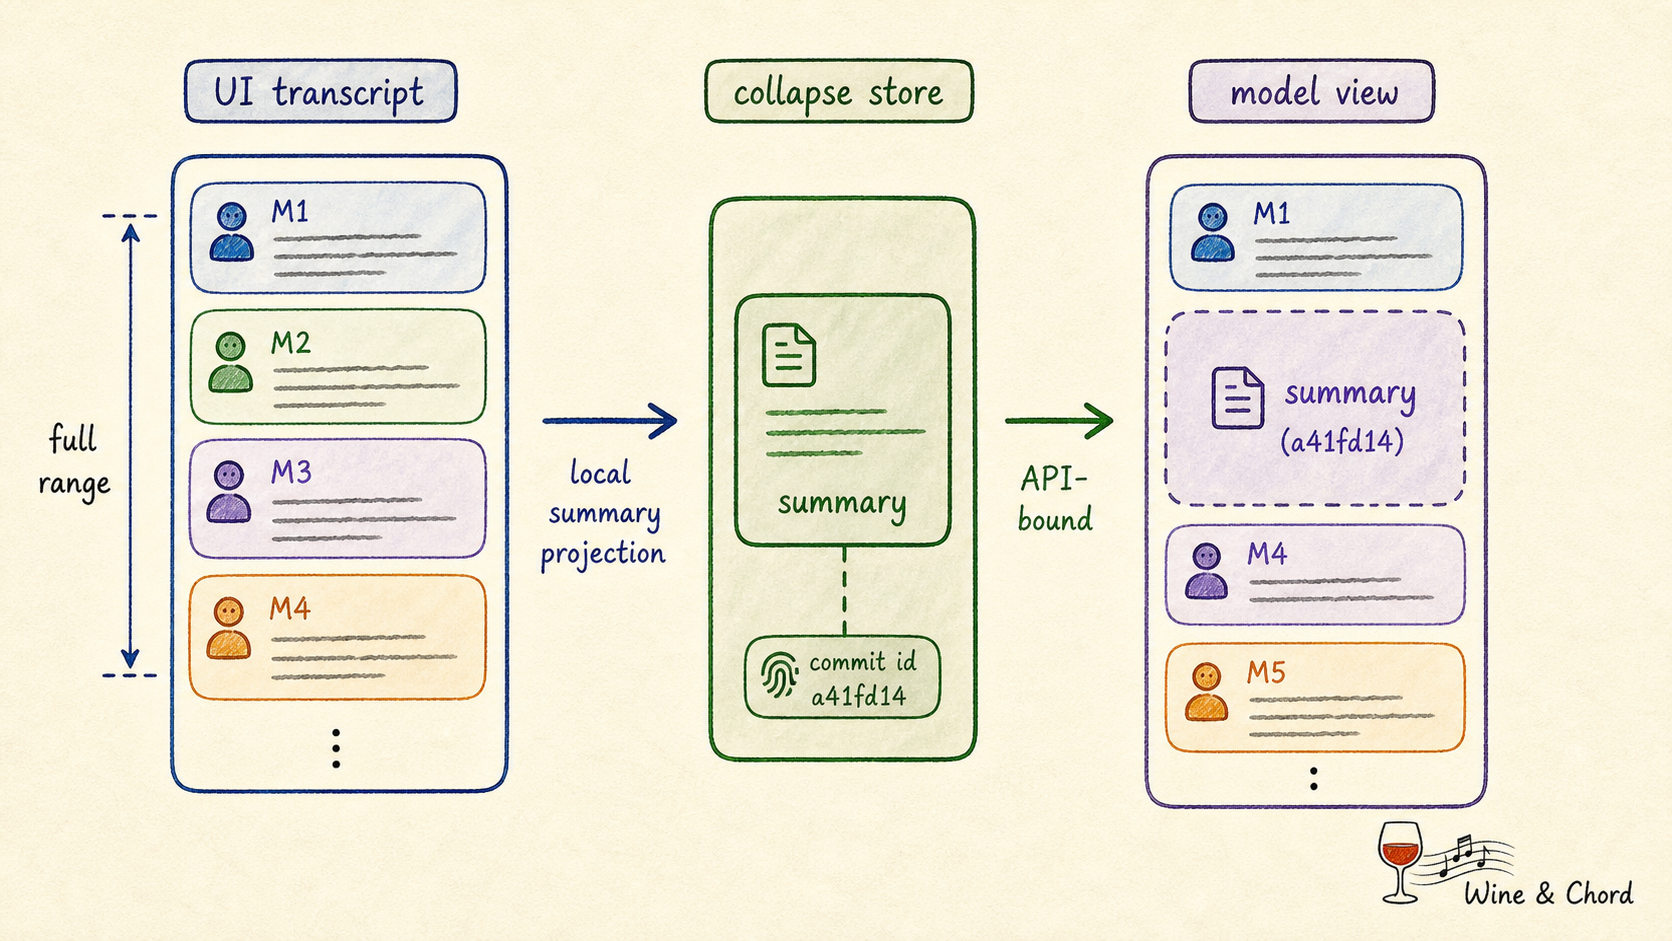
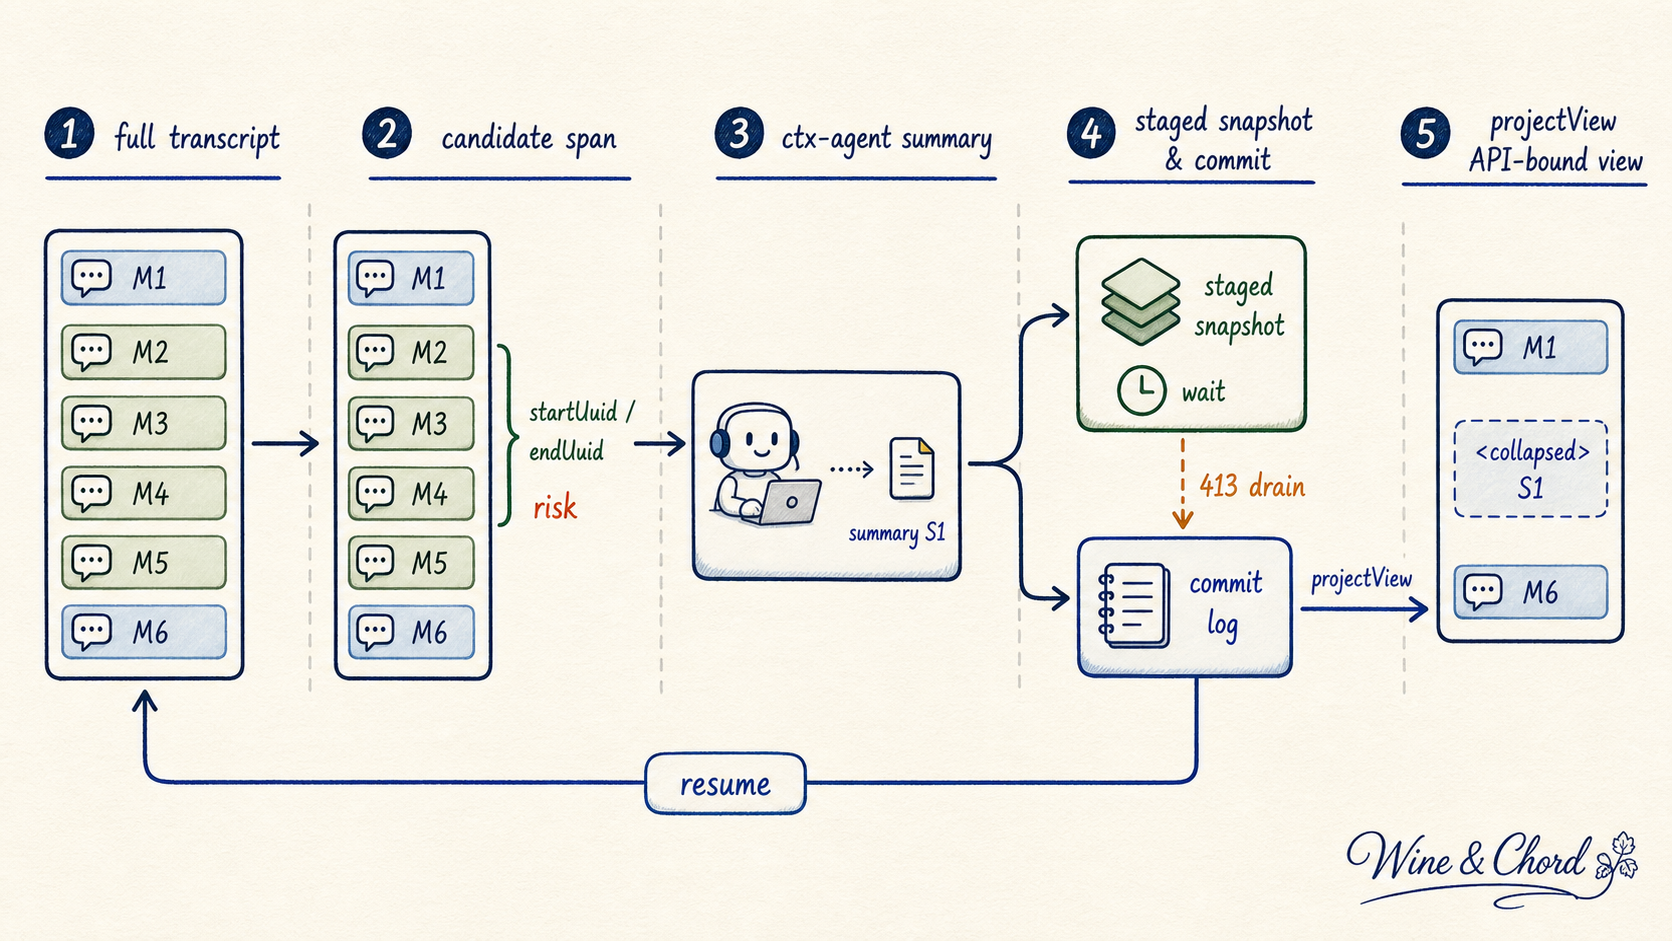
prompt-cache: clarify context collapse lifecycle

Changed region(s): [[0.0, 0.0616, 0.9952, 0.9862]]

diff --git a/docs/public/prompt-cache/index.html b/docs/public/prompt-cache/index.html
@@ -879,10 +879,11 @@ P + Q + cache_control
 <p>所以 cache edit 的收益很窄，但真实：它不是让旧日志既消失又完全不影响缓存统计；它是把“客户端从中间改写或删除一段历史”变成“provider 对已有缓存做一次带 reference 的删除”。收益体现在三个地方：本地 transcript 不丢细节，模型窗口不再背旧工具结果，warm cache 不必因为中段大文本消失而把后面的稳定历史整体重新铺一遍。代价也存在：它依赖 provider 支持、beta header、稳定的 <code>cache_reference</code> 位置，以及把旧 <code>cache_edits</code> pin 回原 user message 的请求纪律。</p>
 <p>microcompact 不是摘要。它不试图理解整段对话，只是把一批旧工具结果从模型视图里移走或引用化。</p>
 <p>这个限制反而是它的价值。旧 tool result 的问题通常不是语义复杂，而是体积太大、复用价值太低。用 summary 去处理它，既费一次模型调用，也可能把日志里的偶发细节误写成结论；用固定 marker 或 cache edit 处理，表达的是更保守的判断：旧结果不再值得原样占窗口，但也不需要被解释成新知识。</p>
-<h4>Context-collapse：源码里可见的是投影契约</h4>
-<p>context-collapse 更像“把一段历史折叠成摘要占位”的投影机制。</p>
-<p>它和 microcompact 的差别在于粒度。microcompact 看的是 tool result body；context-collapse 看的是一段历史消息能否被一条 summary 替代。</p>
-<p><img src="assets/claude-code-context-collapse.png" alt="Claude Code context-collapse 用 summary projection 把完整历史投影成模型视图"></p>
+<h4>Context-collapse：从候选 span 到 summary projection</h4>
+<p>context-collapse 更像“把一段连续历史折叠成摘要占位”的投影机制。</p>
+<p>它和 microcompact 的差别在于粒度。microcompact 看的是 tool result body；context-collapse 看的是一段消息 span 能否被一条 summary 替代。也就是说，这里真正需要回答的不是“最后是不是变短了”，而是四个问题：哪一段被选中，summary 由谁生成，什么时候从 staged 变成 committed，模型又在什么位置看到这个替代视图。</p>
+<p>先把源码边界说清楚：这份源码快照能看到 <a href="https://github.com/WineChord/claude-code/blob/5a774a2b62d7949c1d94e0b726281554d7893cfd/src/query.ts#L18"><code>query.ts</code></a> 对 <code>services/contextCollapse/index.js</code> 的 feature-gated 动态引入、启动时的 <a href="https://github.com/WineChord/claude-code/blob/5a774a2b62d7949c1d94e0b726281554d7893cfd/src/setup.ts#L295"><code>initContextCollapse()</code></a>、query 主链路、transcript 里的 commit / snapshot 类型、resume 恢复和 UI 状态；但真正的 <code>services/contextCollapse</code> 目录没有随快照展开。因此，具体 selector 如何打分、summary prompt 怎么写、触发阈值是多少，不能当成源码事实。可见源码能证明的是下面这条契约链。</p>
+<p><img src="assets/claude-code-context-collapse.png" alt="Claude Code context-collapse 的 staged snapshot、commit log 和 projectView 生命周期"></p>
 <pre><code class="language-text">UI / transcript:
 M1 M2 M3 M4 M5 M6 M7
 
@@ -892,18 +893,49 @@ commit(range: M2..M5, summary: S1)
 API-bound model view:
 M1 S1 M6 M7
 </code></pre>
-<p>这里的重点仍然是“投影”。读者在界面上不一定失去 M2 到 M5；但模型本轮看到的是更短的视图。</p>
-<p>在这份源码快照里，主链路和持久化契约是可见的：</p>
-<ul>
-<li><a href="https://github.com/WineChord/claude-code/blob/5a774a2b62d7949c1d94e0b726281554d7893cfd/src/query.ts#L365"><code>src/query.ts</code></a> 在 microcompact 之后、autocompact 之前做 context-collapse projection。</li>
-<li>注释说明它是 read-time projection：REPL full history 仍保持完整，summary messages 放在 collapse store 里，<code>projectView()</code> 每轮重放 commit log。</li>
-<li><a href="https://github.com/WineChord/claude-code/blob/5a774a2b62d7949c1d94e0b726281554d7893cfd/src/utils/sessionStorage.ts#L1541"><code>src/utils/sessionStorage.ts</code></a> 有 <a href="https://github.com/WineChord/claude-code/blob/5a774a2b62d7949c1d94e0b726281554d7893cfd/src/utils/sessionStorage.ts#L1541"><code>recordContextCollapseCommit()</code></a> 和 <a href="https://github.com/WineChord/claude-code/blob/5a774a2b62d7949c1d94e0b726281554d7893cfd/src/utils/sessionStorage.ts#L1541"><code>recordContextCollapseSnapshot()</code></a>。</li>
-<li><a href="https://github.com/WineChord/claude-code/blob/5a774a2b62d7949c1d94e0b726281554d7893cfd/src/types/logs.ts#L255"><code>src/types/logs.ts</code></a> 定义 <code>ContextCollapseCommitEntry</code> 和 <code>ContextCollapseSnapshotEntry</code>。</li>
-<li>读 transcript 时，如果遇到 <a href="https://github.com/WineChord/claude-code/blob/5a774a2b62d7949c1d94e0b726281554d7893cfd/src/utils/messages.ts#L4530"><code>compact_boundary</code></a>，会清空 pre-boundary 的 context-collapse commits 和 snapshot，避免把旧折叠记录应用到已经不存在的消息链上。</li>
-</ul>
-<p>这里也要保持同样的证据边界：可见源码能证明 context-collapse 的 commit / snapshot / projection 位置，不能证明未展开模块里的选择算法、摘要生成策略和候选区间评分。可靠的说法是：主链路已经为它预留了“投影、持久化、恢复、与 autocompact 协调”的契约；至于哪些区间会被折叠、何时折叠、如何评分，只能在可见契约之外保持克制。</p>
-<p>它和 autocompact 的关系也很重要：context-collapse 在 autocompact 之前运行。<a href="https://github.com/WineChord/claude-code/blob/5a774a2b62d7949c1d94e0b726281554d7893cfd/src/services/compact/autoCompact.ts#L160"><code>shouldAutoCompact()</code></a> 里还明确避开 context-collapse 模式，因为 collapse 自己负责 headroom。如果 autocompact 抢先运行，可能把更细粒度的 collapse 直接压成一段粗 summary。</p>
-<p>这就是 context-collapse 的边界：它适合局部语义仍有价值、但原文太重的区间；它不适合替代最终的窗口保护。把它理解成“比 SNIP 更语义化、比 autocompact 更局部”的中间层，才不会把所有压缩机制混成一个词。</p>
+<p>这里的重点仍然是“投影”。读者在界面上不一定失去 M2 到 M5；原始消息也仍然作为普通 user / assistant message 留在 transcript 里。变化发生在 API-bound model view：<code>projectView()</code> 用一条 <code>&lt;collapsed id=&quot;...&quot;&gt;...&lt;/collapsed&gt;</code> summary placeholder 替代这段 span。</p>
+<p>可见数据结构把链路拆成两个阶段。</p>
+<p>第一阶段是 staged snapshot。<a href="https://github.com/WineChord/claude-code/blob/5a774a2b62d7949c1d94e0b726281554d7893cfd/src/types/logs.ts#L271"><code>ContextCollapseSnapshotEntry</code></a> 里保存的是一组尚未一定进入模型视图的候选折叠：</p>
+<pre><code class="language-ts">{
+  staged: [
+    {
+      startUuid: &quot;...&quot;,
+      endUuid: &quot;...&quot;,
+      summary: &quot;...&quot;,
+      risk: 0.42,
+      stagedAt: 1234567890
+    }
+  ],
+  armed: true,
+  lastSpawnTokens: 180000
+}
+</code></pre>
+<p>这几个字段很关键。<code>startUuid</code> / <code>endUuid</code> 说明被选择的不是任意散点，而是一段可以用边界消息恢复的连续 span；<code>summary</code> 说明 summary 已经生成；<code>risk</code> 说明缺失模块里存在某种候选风险评估，但分值含义和排序策略不可见；<code>stagedAt</code>、<code>armed</code>、<code>lastSpawnTokens</code> 说明它不是每轮同步硬算，而是有一个触发状态和 staged queue。源码注释还说 snapshot 会在每次 <code>ctx-agent</code> spawn resolve 后写入，所以 summary 的直接生产者应当是 context-collapse 模块启动的后台 summarizer，而不是 autocompact 的 <a href="https://github.com/WineChord/claude-code/blob/5a774a2b62d7949c1d94e0b726281554d7893cfd/src/services/compact/compact.ts#L598"><code>compactConversation()</code></a>，也不是普通用户消息。</p>
+<p>第二阶段是 commit log。<a href="https://github.com/WineChord/claude-code/blob/5a774a2b62d7949c1d94e0b726281554d7893cfd/src/types/logs.ts#L255"><code>ContextCollapseCommitEntry</code></a> 不再只是“候选”，而是足以让 <code>projectView()</code> 重放的 splice instruction：</p>
+<pre><code class="language-ts">{
+  collapseId: &quot;0000000000000042&quot;,
+  summaryUuid: &quot;...&quot;,
+  summaryContent: &quot;&lt;collapsed id=\&quot;...\&quot;&gt;...&lt;/collapsed&gt;&quot;,
+  summary: &quot;...&quot;,
+  firstArchivedUuid: &quot;...&quot;,
+  lastArchivedUuid: &quot;...&quot;
+}
+</code></pre>
+<p>源码注释说得很直白：被归档的原消息不需要再持久化，因为它们已经在 transcript 里；commit 只持久化边界 UUID 和 summary placeholder。resume 时，<a href="https://github.com/WineChord/claude-code/blob/5a774a2b62d7949c1d94e0b726281554d7893cfd/src/utils/sessionRestore.ts#L121"><code>restoreFromEntries()</code></a> 必须在第一次 query 前恢复 commit log 和 staged snapshot，这样 <code>projectView()</code> 才能从 resumed message array 里找到 <code>firstArchivedUuid..lastArchivedUuid</code> 这段 span，并重新构造模型视图。</p>
+<p>把它放回 query 主链路，顺序是这样的：</p>
+<pre><code class="language-text">messagesForQuery
+  -&gt; microcompact
+  -&gt; applyCollapsesIfNeeded()
+       - replay committed collapses through projectView()
+       - maybe commit staged collapses
+       - maybe schedule / update future staged summaries
+  -&gt; autocompact check
+  -&gt; Claude API request
+</code></pre>
+<p><a href="https://github.com/WineChord/claude-code/blob/5a774a2b62d7949c1d94e0b726281554d7893cfd/src/query.ts#L428"><code>query.ts</code></a> 的注释强调它必须在 autocompact 之前运行：如果局部 collapse 已经让窗口降下来，就保留更细粒度的局部摘要，而不是让 autocompact 把整段旧会话压成一个全局 summary。<a href="https://github.com/WineChord/claude-code/blob/5a774a2b62d7949c1d94e0b726281554d7893cfd/src/services/compact/autoCompact.ts#L160"><code>shouldAutoCompact()</code></a> 里也专门避开 context-collapse 模式，因为两者同时抢窗口时，autocompact 会把 collapse 正要保护的 granular context 直接抹平成一段粗 summary。</p>
+<p>还有一个只看 happy path 容易漏掉的分支：prompt-too-long 恢复。Claude Code 在 blocking-limit 检查处明确给 context-collapse 留出空间；如果真实 API 返回 413，后处理会先调用 <a href="https://github.com/WineChord/claude-code/blob/5a774a2b62d7949c1d94e0b726281554d7893cfd/src/query.ts#L1086"><code>recoverFromOverflow()</code></a> drain staged collapses，写成 committed collapse 后 retry。只有这一步还不够，才继续落到 reactive compact。这个设计解释了 staged snapshot 的价值：summary 可以提前准备好，未必每一条都立刻进入模型视图，但窗口真的爆掉时可以先把这些已经生成好的局部 summary 提交掉。</p>
+<p>所以，“哪一段会被选中”不能从这份快照里还原成精确算法；但它必须满足几个可见约束：它是 <code>startUuid..endUuid</code> 定位的连续 span；它有 summary 和 risk；它要能在 resume 时从 transcript 重新找到；它不能跨过已经改变历史起点的 <a href="https://github.com/WineChord/claude-code/blob/5a774a2b62d7949c1d94e0b726281554d7893cfd/src/utils/messages.ts#L4530"><code>compact_boundary</code></a>。这也是为什么读 transcript 时一旦遇到 compact boundary，就会清空旧的 context-collapse commits 和 snapshot，避免把旧 span 套到已经切过的历史上。</p>
+<p>这就是 context-collapse 的真实位置：它适合“局部语义仍有价值、但原文太重”的区间。它比 SNIP 更保留语义，因为它用 summary 替代；它比 autocompact 更局部，因为它不改写整条会话起点；它也比普通 summary 更复杂，因为它必须同时维护 staged queue、commit log、resume replay 和 413 recovery。</p>
 <h3>2.6 最后防线：autocompact 和 compact_boundary</h3>
 <p>autocompact 是 Claude Code 的最后一级保护。</p>
 <p>它之所以是最后一级，是因为它动的是会话的继续方式：旧历史不再主要靠原文进入模型，而是由 summary 和 boundary 承接。这个动作能救窗口，但也最容易改变模型后续推理的依据。</p>

diff --git a/.codex/skills/wine-chord-article/SKILL.md b/.codex/skills/wine-chord-article/SKILL.md
@@ -302,6 +302,13 @@ contract and explicitly avoid inventing selector heuristics, scoring policies,
 tool prompts, thresholds, or private module behavior. Shape-level examples may
 show what the visible contract does, but must not read as the missing
 implementation's actual strategy.
+When the missing implementation is a compaction, projection, staging, or
+summary mechanism, still reconstruct the visible lifecycle from the surrounding
+contracts: trigger owner, candidate record shape, summary producer boundary,
+staged-vs-committed state, projection point, persistence record, resume replay,
+and overflow recovery. Clearly mark selector algorithms, scoring signs,
+thresholds, and prompt wording as unavailable unless the source directly shows
+them.
 
 When an article discusses hidden or provider-constructed prompts, split the
 claim into product prompts, public API request surface, provider-generated
